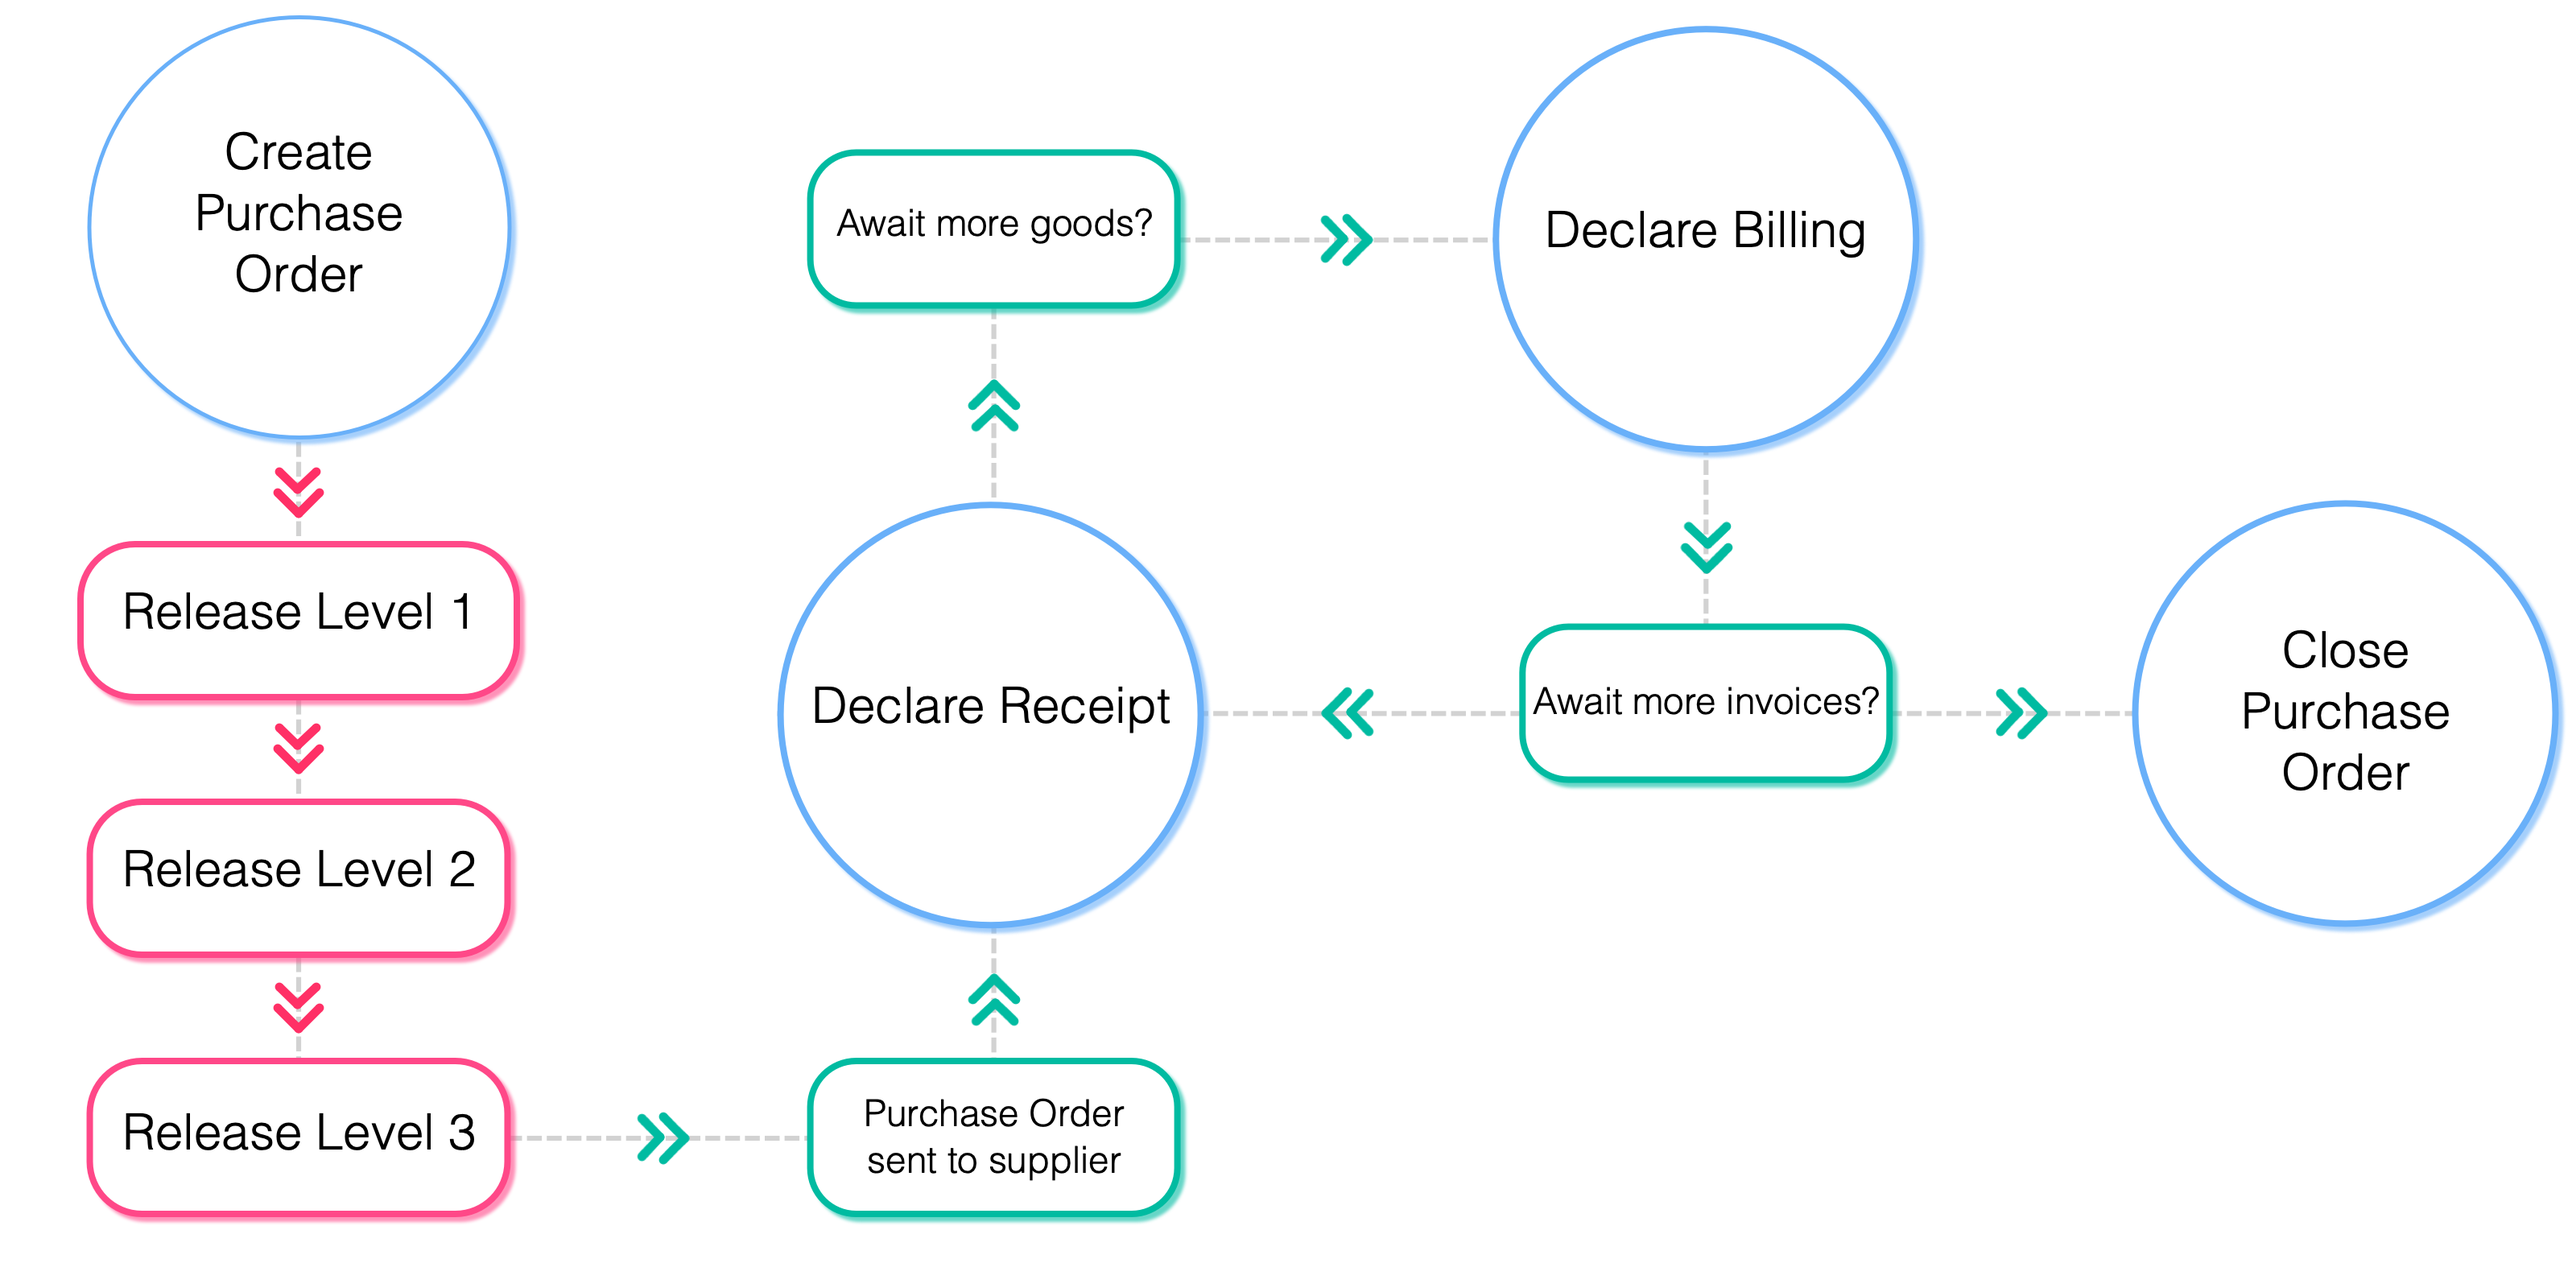
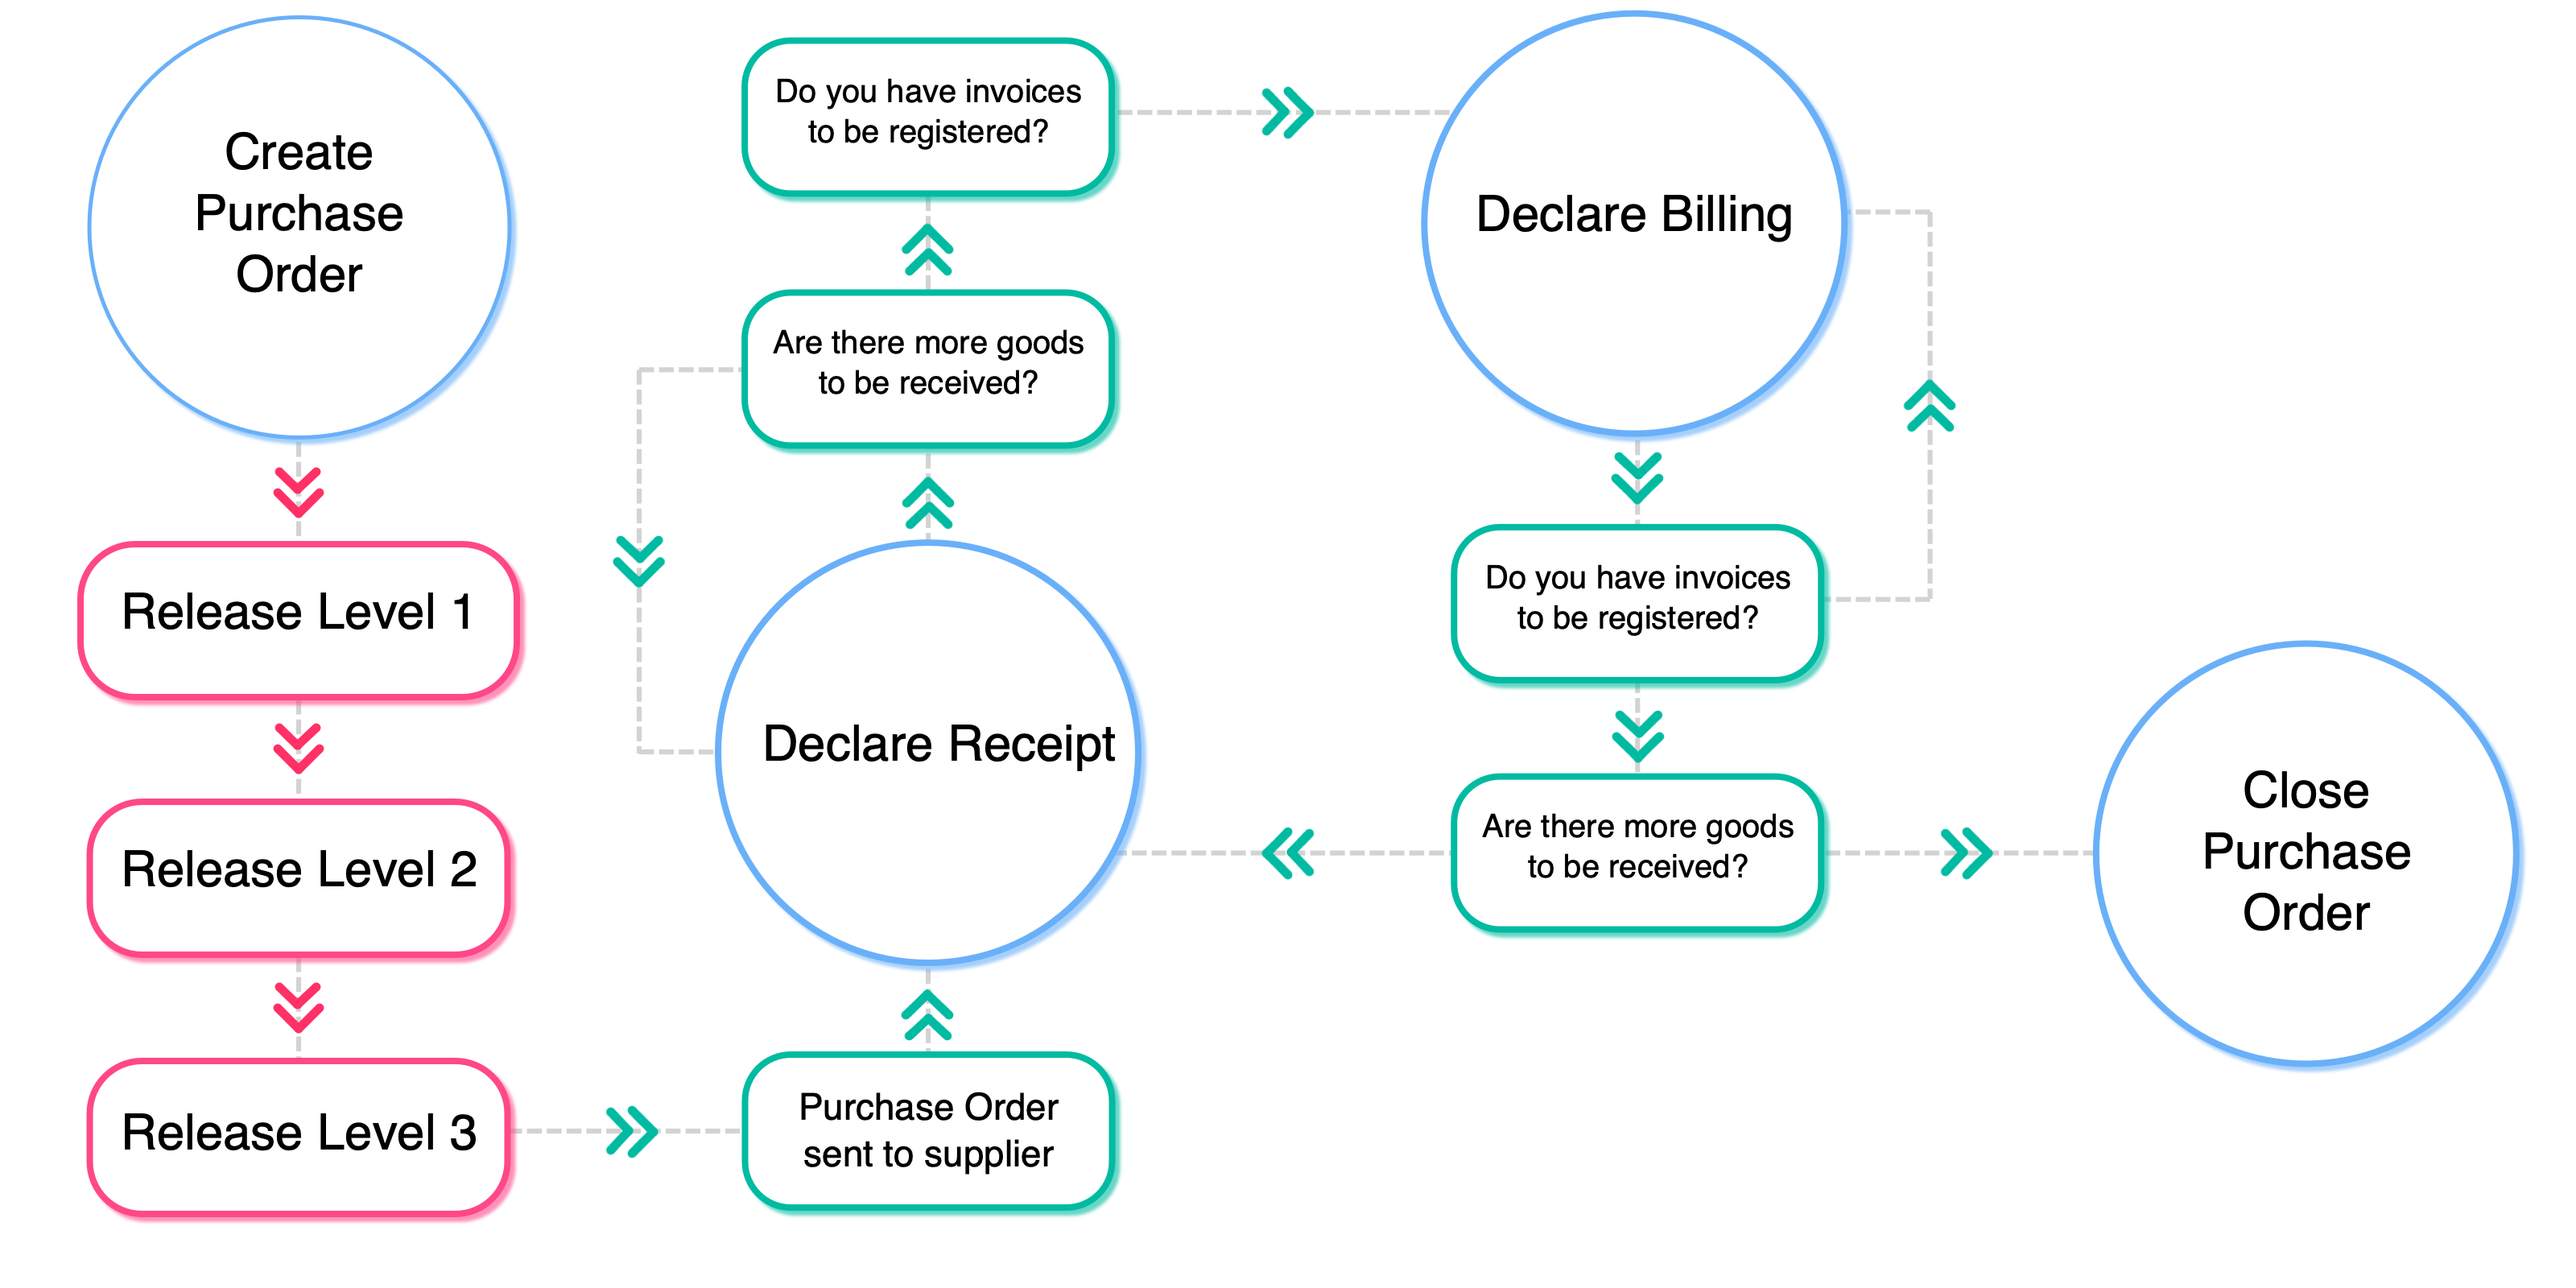
purchase order fixes

diff --git a/sidebars.js b/sidebars.js
@@ -390,7 +390,7 @@ module.exports = {
         'documentation/models/users/model_jobtitles',
         'documentation/models/users/model_accessroles',
       ],
-      collapsed: false,
+      collapsed: true,
     },
     {
       type: 'category',
@@ -402,7 +402,7 @@ module.exports = {
         'documentation/models/communication/model_messageContent',
         'documentation/models/communication/file',
       ],
-      collapsed: false,
+      collapsed: true,
     },
     {
       type: 'category',
@@ -416,7 +416,7 @@ module.exports = {
         'documentation/models/surveys/model_surveys',
         'documentation/models/surveys/model_surveychats',
       ],
-      collapsed: false,
+      collapsed: true,
     },
     {
       type: 'category',
@@ -425,7 +425,7 @@ module.exports = {
         'documentation/models/databases/model_properties',
         'documentation/models/databases/model_propertytypes',
       ],
-      collapsed: false,
+      collapsed: true,
     },
     {
       type: 'category',
@@ -437,7 +437,7 @@ module.exports = {
         'documentation/models/tasks/model_tasks',
         'documentation/models/tasks/model_taskgroup',
       ],
-      collapsed: false,
+      collapsed: true,
     },
     {
       type: 'category',
@@ -448,7 +448,7 @@ module.exports = {
         'documentation/models/automations/model_pbscripts',
         'documentation/models/automations/model_scheduler',
       ],
-      collapsed: false,
+      collapsed: true,
     },
     {
       type: 'category',
@@ -459,7 +459,7 @@ module.exports = {
         'documentation/models/webhooks/webhook',
         'documentation/models/webhooks/webhooklog',
       ],
-      collapsed: false,
+      collapsed: true,
     },
   ],
   support: [

diff --git a/docs/products/workflows/purchase_orders/workflow.md b/docs/products/workflows/purchase_orders/workflow.md
@@ -30,7 +30,7 @@ _Description of the different states or stages of the process:_
   
   2.3. **In Release Level 3**: Purchase orders approved in the previous two states and with a cost value equal to or greater than third level's set value, pass through this level for approval.  
 3. **Released and Shipped**: Once the purchase order is fully approved, it goes on to this state. Upon entering this state, the purchase order is automatically generated as a PDF document and sent to the supplier via email. During this state, designated users are added to the workflow to register the reception of goods and services. Furthermore, designated users are added to register invoice and billing information. If deliveries are segmented, reception and billing information are stored and added to each consecutive delivery.
-4. **Closed**: From the **Released and Shipped** state, the purchase order can be closed by a supervisor or the user that initiated the purchase order. Closure comes after the registration of received goods and services along with their billing information. If goods or services are received in segmented deliveries, closure can be delayed until all items and invoices are registered.
+4. **Closed**: From the **Released and Shipped** state, the purchase order can be closed by a supervisor or the user that initiated the purchase order. Closure comes after the registration of received goods and services along with their billing information. If goods or services are received in partial deliveries or not in their totality, closure can be carried out once all received items and invoices are registered.
 5. **Cancelled**: The purchase order is cancelled any time it is rejected while in the release levels.
 
 </div>

diff --git a/docs/documentation/models/webhooks/webhook.md b/docs/documentation/models/webhooks/webhook.md
@@ -39,6 +39,15 @@ Field | Description | Type | Notes
 **name** | Indicates the webhook's name. | string | We recommend using a descriptive name for the webhook.
 **code** | Indicates the webhook's identification code. The code must be unique. Only lowercase letters, numbers, and underscores can be used. | string |
 **context** | Contains the event trigger's details. The fields used will depend on the selected event type.| object | 
-**context.survey** |
-**context.group** |
-**context.taskGroup** |
+**context.survey** | Contains the ObjectId of the survey to be monitored. | [ObjectId<COTSurvey\>](/docs/documentation/models/surveys/model_surveys) | This field is left with empty quotes when the trigger is not a survey.
+**context.group** | Indicates the ObjectId of the group in which the survey to be monitored is found in. | [ObjectId<COTGroup\>](/docs/documentation/models/communication/model_groups) | This field is left with empty quotes when the trigger is not a survey.
+**context.taskGroup** | This is the ObjectId of the task group in which tasks will be monitored. | [ObjectId<COTTaskGroup\>](/docs/documentation/models/tasks/model_taskgroup) | This field is left with empty quotes when the trigger is not a task.
+
+
+## Additional Resources {#additional-resources}
+- [Webhooks Section](/docs/documentation/admin/admin_webhooks): Administrative Panel Settings
+- [Webhook REST API Documentation](/docs/documentation/api/automations/webhooks): Webhook API requests
+
+## Help {#help}
+
+- [Cotalker Platform Community](https://github.com/Cotalker/documentation/discussions): post your questions or search for previous answers given in the forum

diff --git a/docs/products/purchase_order_product/po_overview.md b/docs/products/purchase_order_product/po_overview.md
@@ -38,7 +38,7 @@ The Purchase Order product consists of a single workflow.
 - In case the supplier did not provide all the expected goods or services, a partial receipt of goods or services can be declared. If the supplier sends more than one partial delivery, all receipts are registered and discounted from the expected total.
 - After the supplier provides an invoice, even if it is an invoice for the partiality of the expected goods or services, the corresponding user can register the invoice and billing details.
 - Billing details are connected with master data, the purchase order, and received goods and services registry, allowing a control over expected and received goods or services, partial and total payments, along with a detail of the supplier's banking information.
-- Once everything has been received, paid for, and registered, the workflow can be closed.
+- Once all received goods and services are registered and paid for, the workflow can be closed.
 
 ## Workflow Details {#workflow}
 _For in-depth product details and examples, view the information below:_

diff --git a/docs/products/workflows/purchase_orders/surveys-release.md b/docs/products/workflows/purchase_orders/surveys-release.md
@@ -49,7 +49,7 @@ _The **Release Purchase Order** form appears as shown below:_
 <img alt="survey form" className="img_sizing item shadow--tl" src={useBaseUrl('img/products/product_purchase_survey_03.png')} />
 <br/>
 
-_After choosing either to approve or reject the purchase order request, a field for the releaser's signature appears:_
+_After choosing to approve the purchase order request, a field for the releaser's signature appears:_
 
 <img alt="survey form" className="img_sizing item shadow--tl" src={useBaseUrl('img/products/product_purchase_survey_04.png')} />
 <br/>

diff --git a/docs/products/workflows/purchase_orders/surveys-receipt.md b/docs/products/workflows/purchase_orders/surveys-receipt.md
@@ -27,7 +27,7 @@ _To access the form, designated personnel, do the following:_
 
 1. From the **Main Menu Bar**, press <span className="badge badge--primary">Purchase Orders</span>.
 2. Select the corresponding purchase order from the **Purchase Orders** panel.
-3. In the channel workspace, press the <span className="badge bagde--success">Declare Receipt</span> button to open the form.
+3. In the channel workspace, press the <span className="badge badge--success">Declare Receipt</span> button to open the form.
 
 </div>
 <br/>

diff --git a/docs/products/workflows/purchase_orders/surveys-close-po.md b/docs/products/workflows/purchase_orders/surveys-close-po.md
@@ -38,6 +38,11 @@ _The **Close Purchase Order** appears as shown below:_
 
 <img alt="survey form" className="img_sizing item shadow--tl" src={useBaseUrl('img/products/product_purchase_survey_16.png')} />
 <br/>
+<br/>
+
+:::note
+If not all expected goods or services have been delivered, the **Close purchase order** form alerts you of the cost of the unreceived goods.
+:::
 
 </div>
 <br/>
